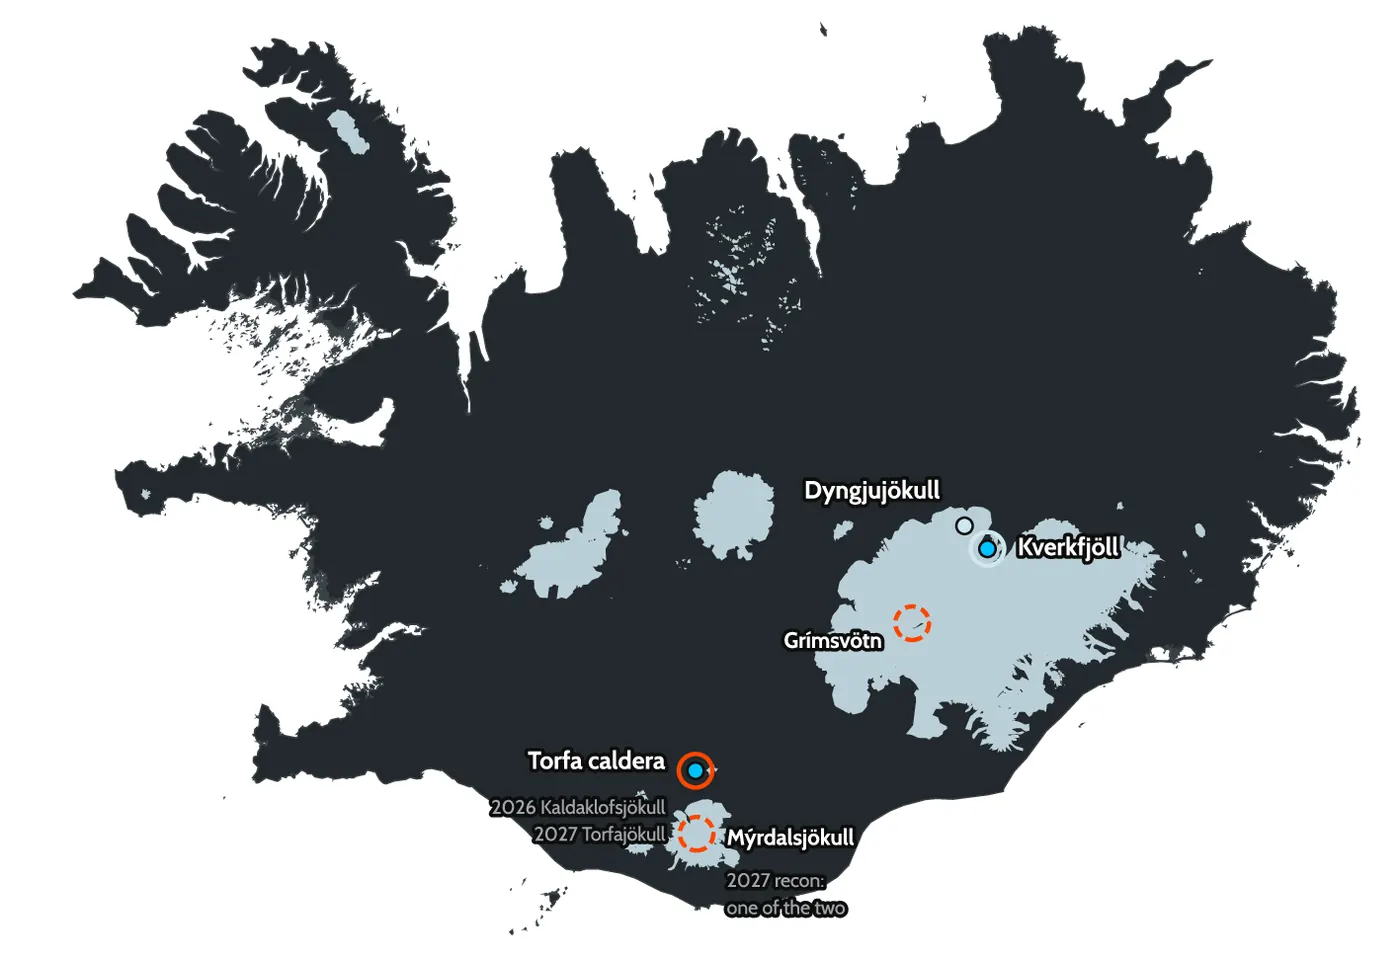
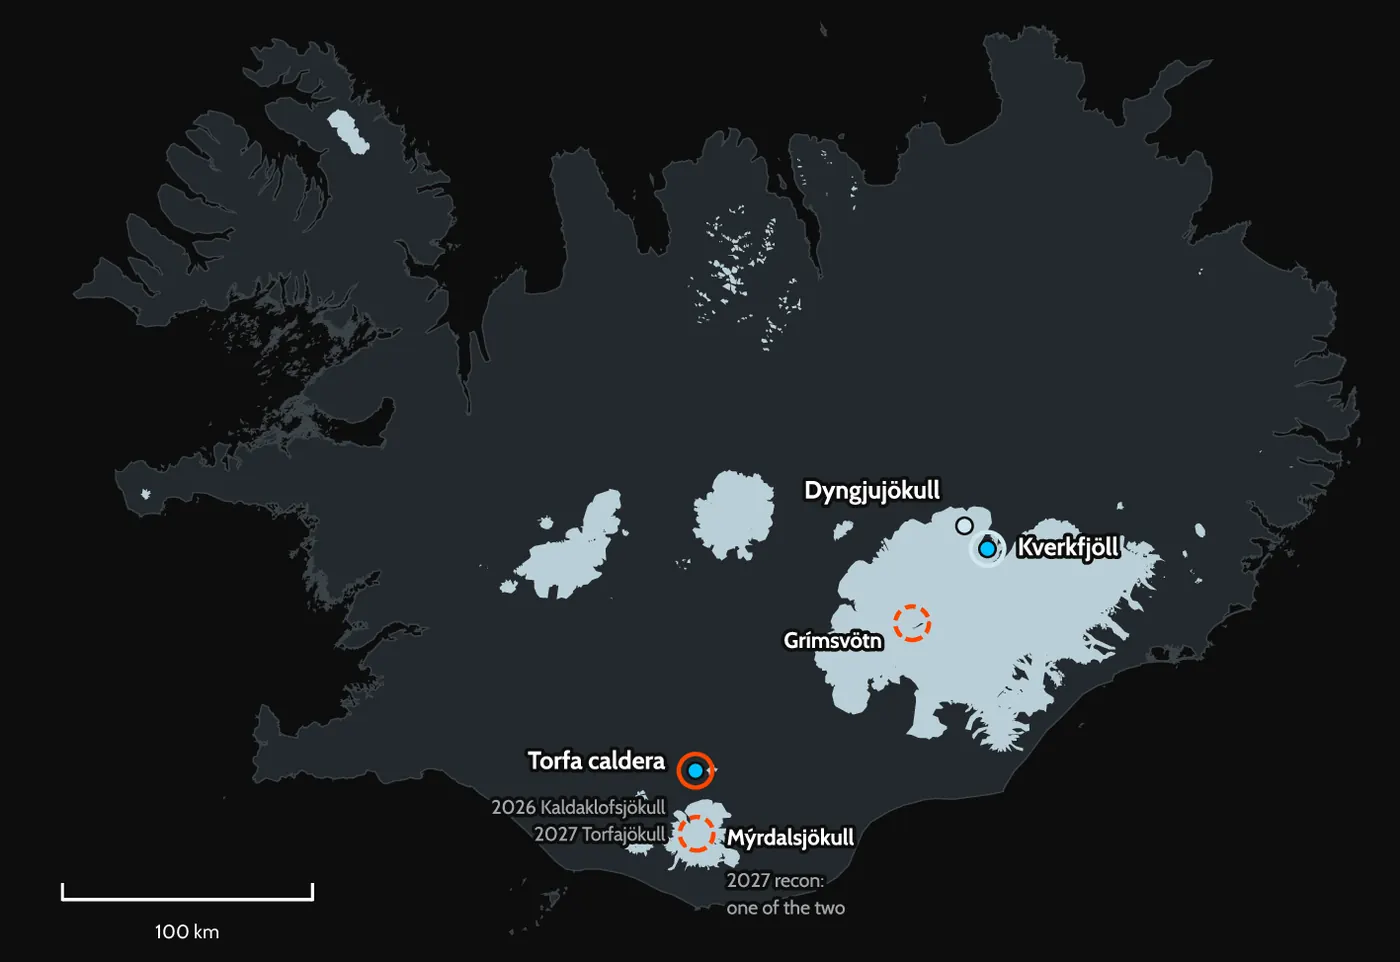
content: site copy from the brochure; headings in content.yaml
- content.yaml condensed from brochure pages 1-16; all team consent false
- section headings and intros move from templates to content.yaml
- project section: key figures, Lee Florea drawing, permit note
- new images: f1 schema, 2025 survey, 2027 targets map; PDF maps on #0D0D0D

diff --git a/templates/sections/project.html b/templates/sections/project.html
@@ -1,6 +1,23 @@
-{% from "macros.html" import header %}
+{% from "macros.html" import image, header %}
 <section id="project" class="reveal">
-  {{ header(c.project.kicker, c.project.title) }}
-  {% for p in c.project.paragraphs %}<p>{{ p | md }}</p>
-  {% endfor %}
+  {{ header(c.project) }}
+  <div class="project-body">
+    <div class="project-text">
+      {% for p in c.project.paragraphs %}<p>{{ p | md }}</p>
+      {% endfor %}
+    </div>
+    {% if c.project.image is defined %}
+    <figure class="project-figure">
+      {{ image(c.project.image, c.project.image_alt, sizes="(min-width: 48rem) 45vw, 100vw") }}
+      {% if c.project.image_caption is defined %}<figcaption>{{ c.project.image_caption | md }}</figcaption>{% endif %}
+    </figure>
+    {% endif %}
+  </div>
+  {% if c.project.stats is defined %}
+  <ul class="stats">
+    {% for s in c.project.stats %}<li><strong>{{ s.value | md }}</strong> <span>{{ s.label | md }}</span></li>
+    {% endfor %}
+  </ul>
+  {% endif %}
+  {% if c.project.note is defined %}<p class="note">{{ c.project.note | md }}</p>{% endif %}
 </section>

diff --git a/templates/macros.html b/templates/macros.html
@@ -9,8 +9,12 @@
   {%- if priority %} fetchpriority="high"{% elif lazy %} loading="lazy"{% endif %}>
 {%- endmacro %}
 
-{# header(kicker, title): the small uppercase line above a section title #}
-{% macro header(kicker, title) -%}
-<p class="kicker">{{ kicker | md }}</p>
-<h2>{{ title | md }}</h2>
+{# header(h): kicker (small uppercase line), title, optional intro paragraph.
+   `h` is one entry of `headings:` in content.yaml (or any dict with those keys). #}
+{% macro header(h) -%}
+<p class="kicker">{{ h.kicker | md }}</p>
+<h2>{{ h.title | md }}</h2>
+{%- if h.intro is defined %}
+<p class="intro">{{ h.intro | md }}</p>
+{%- endif %}
 {%- endmacro %}

diff --git a/templates/sections/watch.html b/templates/sections/watch.html
@@ -1,6 +1,6 @@
 {% from "macros.html" import image, header %}
 <section id="watch" class="reveal">
-  {{ header("Watch", c.video.title) }}
+  {{ header(c.headings.watch) }}
   <a class="video" href="https://www.youtube.com/watch?v={{ c.video.youtube_id }}" data-youtube="{{ c.video.youtube_id }}" rel="noopener">
     {{ image(c.video.thumbnail, c.video.thumbnail_alt, sizes="(min-width: 48rem) 70vw, 100vw") }}
     <svg class="play" viewBox="0 0 64 64" width="64" height="64" aria-hidden="true" focusable="false">

diff --git a/templates/sections/contact.html b/templates/sections/contact.html
@@ -1,5 +1,5 @@
 {% from "macros.html" import header %}
 <section id="contact" class="reveal">
-  {{ header("Contact", "Get in touch") }}
+  {{ header(c.headings.contact) }}
   <p><a class="email" href="mailto:{{ c.site.contact_email }}">{{ c.site.contact_email }}</a></p>
 </section>

diff --git a/templates/sections/team.html b/templates/sections/team.html
@@ -1,6 +1,6 @@
 {% from "macros.html" import image, header %}
 <section id="team" class="reveal">
-  {{ header("Team", "Who we are") }}
+  {{ header(c.headings.team) }}
   <div class="csi">
     {{ image(c.csi.logo, c.csi.name, cls="csi-logo") }}
     <h3>{{ c.csi.name | md }}</h3>

diff --git a/templates/sections/press.html b/templates/sections/press.html
@@ -1,6 +1,6 @@
 {% from "macros.html" import header %}
 <section id="press" class="reveal">
-  {{ header("Press and talks", "In print, on stage, on air") }}
+  {{ header(c.headings.press) }}
   <h3>Articles</h3>
   <ul class="press-list">
     {% for a in c.press.articles %}

diff --git a/templates/sections/science.html b/templates/sections/science.html
@@ -1,6 +1,6 @@
 {% from "macros.html" import image, header %}
 <section id="science" class="reveal">
-  {{ header("Science", "What we measure") }}
+  {{ header(c.headings.science) }}
   <ul class="cards">
     {% for s in c.science %}
     <li class="card">

diff --git a/templates/sections/years.html b/templates/sections/years.html
@@ -1,6 +1,6 @@
 {% from "macros.html" import image, header %}
 <section id="years" class="reveal">
-  {{ header("2025-2027", "Three years") }}
+  {{ header(c.headings.years) }}
   <ol class="cards">
     {% for y in c.years %}
     <li class="card">

diff --git a/templates/sections/partners.html b/templates/sections/partners.html
@@ -10,7 +10,7 @@
 </ul>
 {% endmacro %}
 <section id="partners" class="reveal">
-  {{ header("Partners", "Who supports the project") }}
+  {{ header(c.headings.partners) }}
   {{ logos(c.partners) }}
   {% if c.sponsors %}
   <h3>Sponsors</h3>

diff --git a/prepare_images.py b/prepare_images.py
@@ -42,6 +42,9 @@ JOBS: list[tuple[str, str, str]] = [
     ("responsive", "figures/composites/f3_lake_overlay.jpg", "f3-lake-overlay"),
     # The 2006 vs 2025 slider images are built by make_comparison.py.
     ("pdf", "figures/composites/f2_iceland_map.pdf", "map-iceland"),
+    ("pdf", "figures/composites/f6_targets_map.pdf", "map-targets-2027"),
+    ("responsive", "figures/composites/f1_schema.jpg", "f1-schema"),
+    ("responsive", "figures/composites/f_p05_hveradalur2025.png", "survey-hveradalur-2025"),
     # Team portraits: source file in people/ -> team/<surname>.webp
     ("square", "people/benassi.png", "team/benassi.webp"),
     ("square", "people/lorenzo.png", "team/bordin.webp"),
@@ -124,7 +127,7 @@ def rasterise_pdf(src: Path, out_stem: Path) -> list[Path]:
     with tempfile.TemporaryDirectory() as tmp:
         png = Path(tmp) / "page.png"
         subprocess.run(
-            ["magick", "-density", "200", f"{src}[0]", "-background", "white",
+            ["magick", "-density", "200", f"{src}[0]", "-background", "#0D0D0D",
              "-alpha", "remove", str(png)],
             check=True,
         )

diff --git a/tests/test_sitelib.py b/tests/test_sitelib.py
@@ -18,6 +18,15 @@ def minimal_content() -> dict:
             "description": "A glaciological expedition.",
             "contact_email": "info@fireunderice.org",
         },
+        "headings": {
+            "years": {"kicker": "Years", "title": "Years title"},
+            "watch": {"kicker": "Watch", "title": "Watch title"},
+            "science": {"kicker": "Science", "title": "Science title"},
+            "team": {"kicker": "Team", "title": "Team title"},
+            "press": {"kicker": "Press", "title": "Press title"},
+            "partners": {"kicker": "Partners", "title": "Partners title"},
+            "contact": {"kicker": "Contact", "title": "Contact title"},
+        },
         "hero": {
             "title": "Fire Under Ice",
             "subtitle": "Kverkfjöll, Iceland",

diff --git a/sitelib.py b/sitelib.py
@@ -20,6 +20,9 @@ from markupsafe import Markup, escape
 REQUIRED: dict[str, list[str]] = {
     "site": ["title", "url", "description", "contact_email"],
     "hero": ["title", "subtitle", "years", "image", "image_alt"],
+    "project": ["kicker", "title", "paragraphs"],
+    # one {kicker, title, intro?} per section; the page headings live here
+    "headings": ["years", "watch", "science", "team", "press", "partners", "contact"],
     "years": ["year", "label", "place", "text", "image", "image_alt"],
     "video": ["youtube_id", "title", "thumbnail", "thumbnail_alt"],
     "csi": ["name", "logo", "blurb"],
